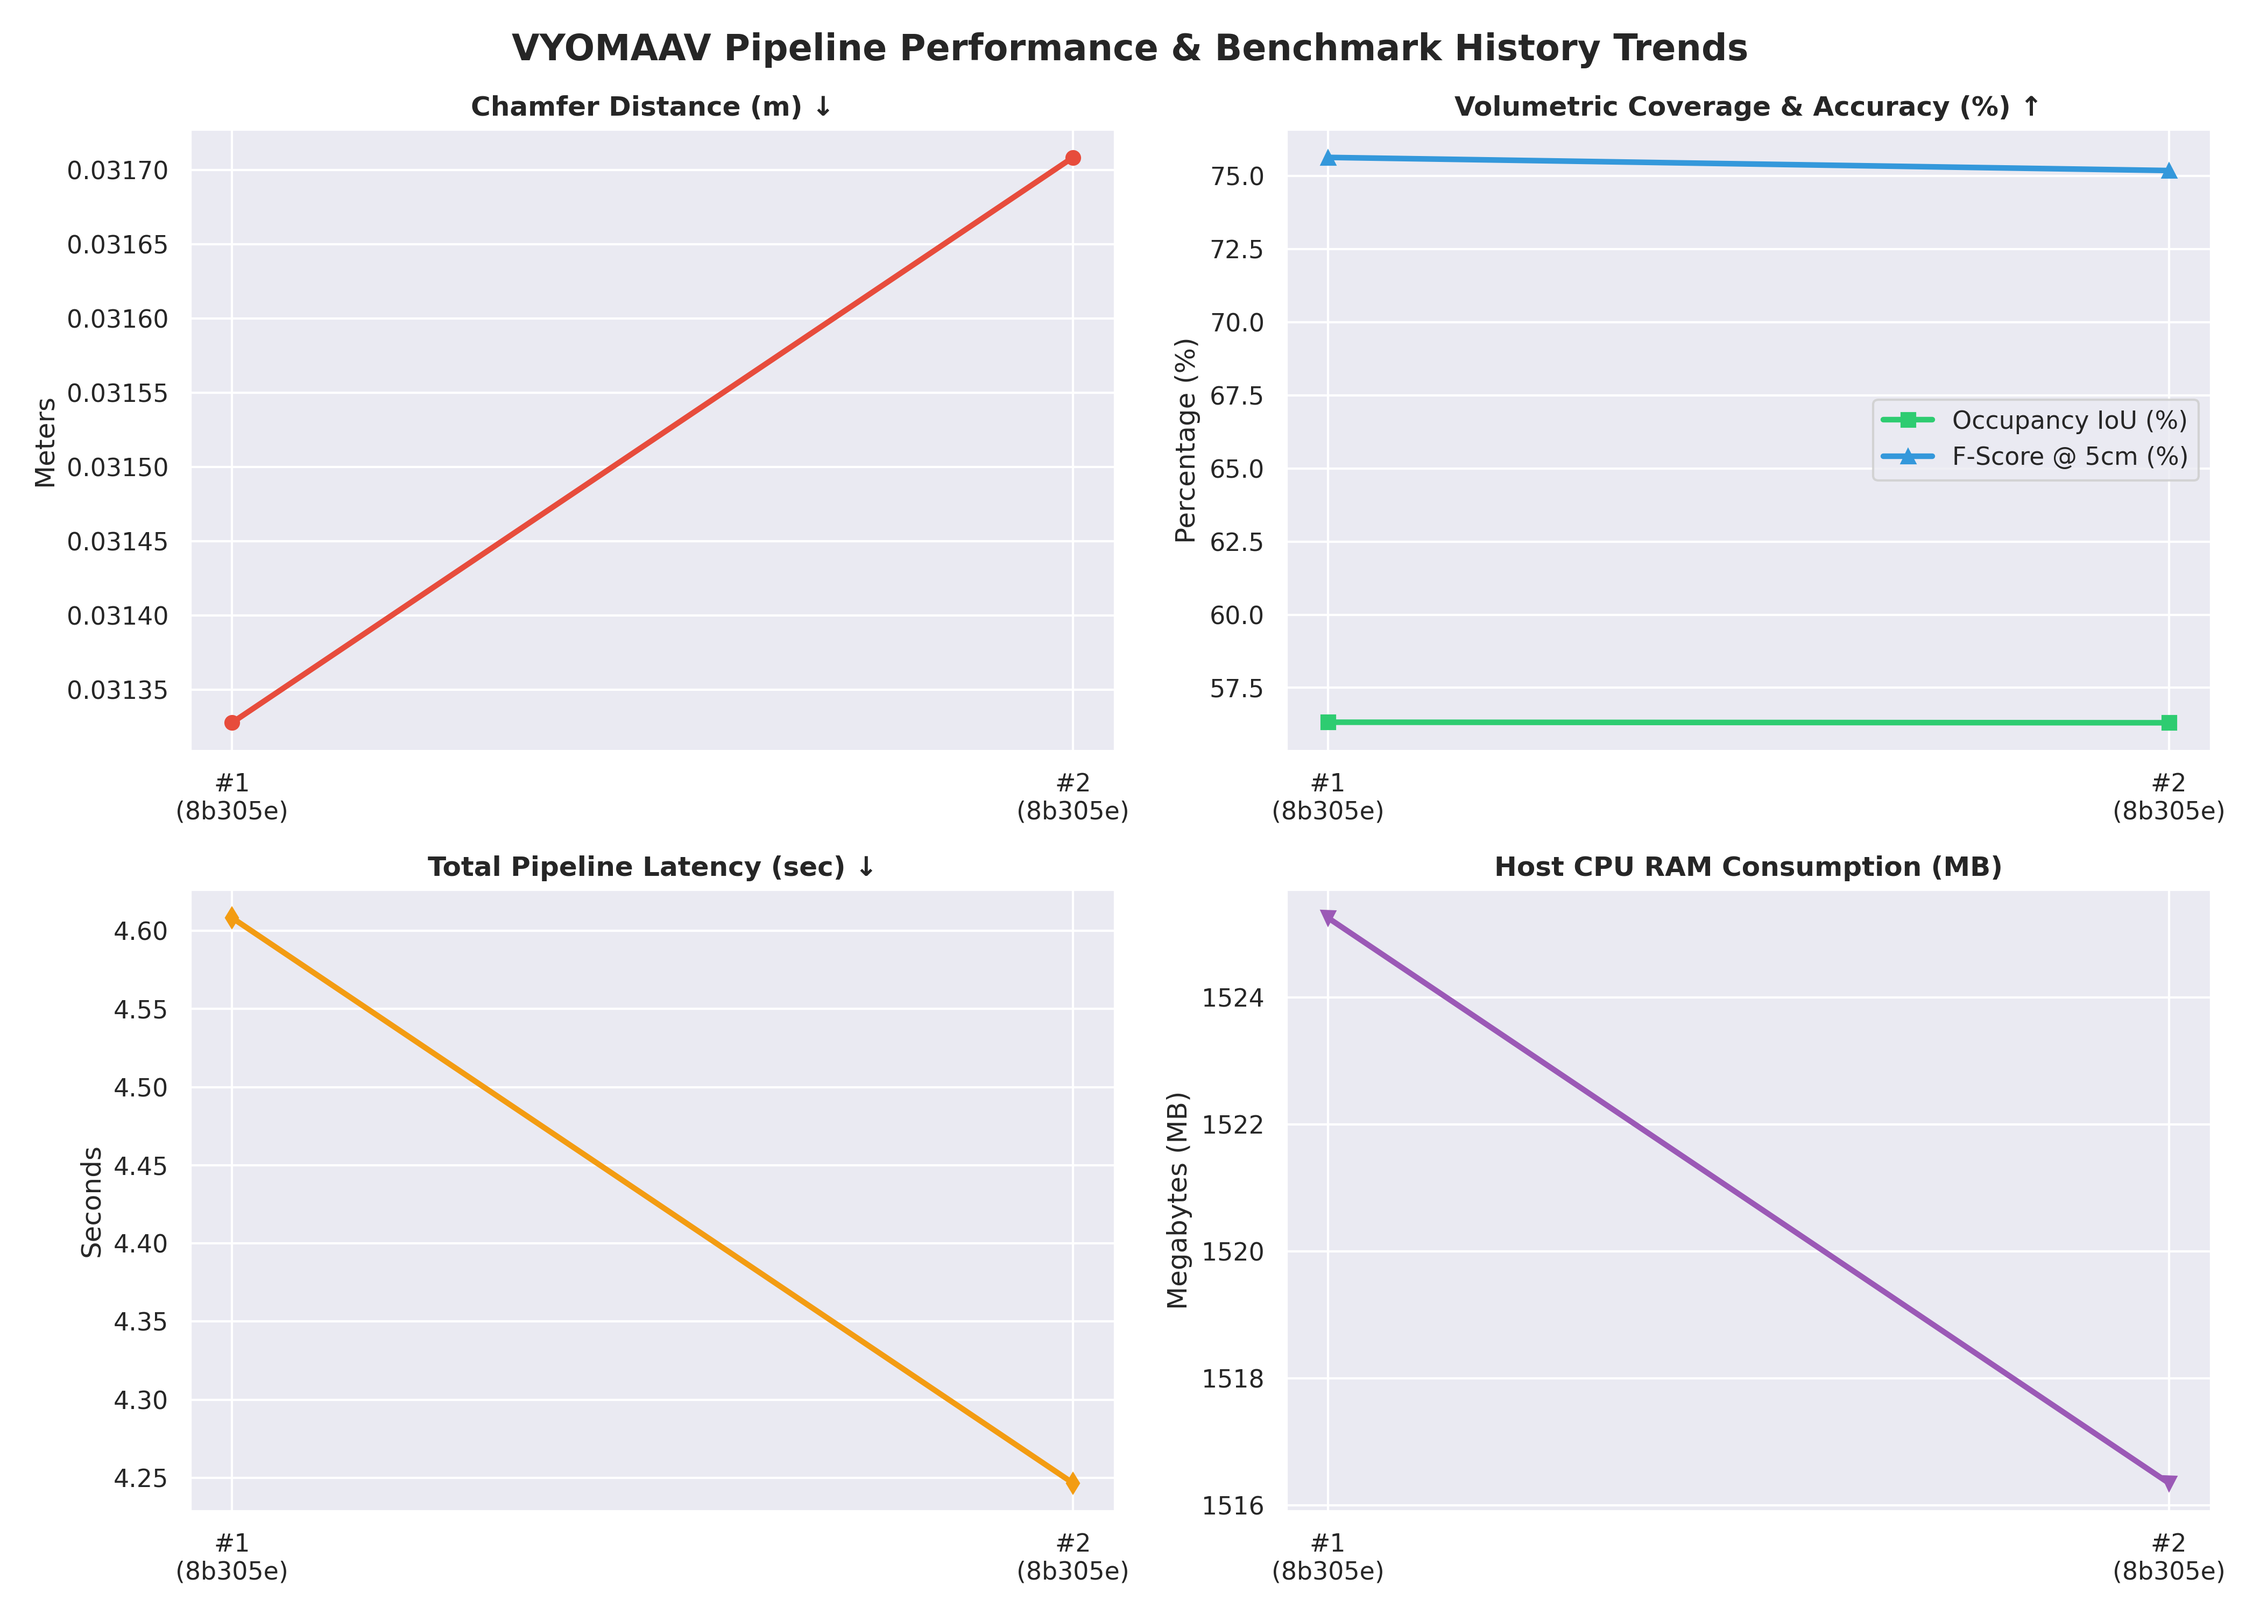
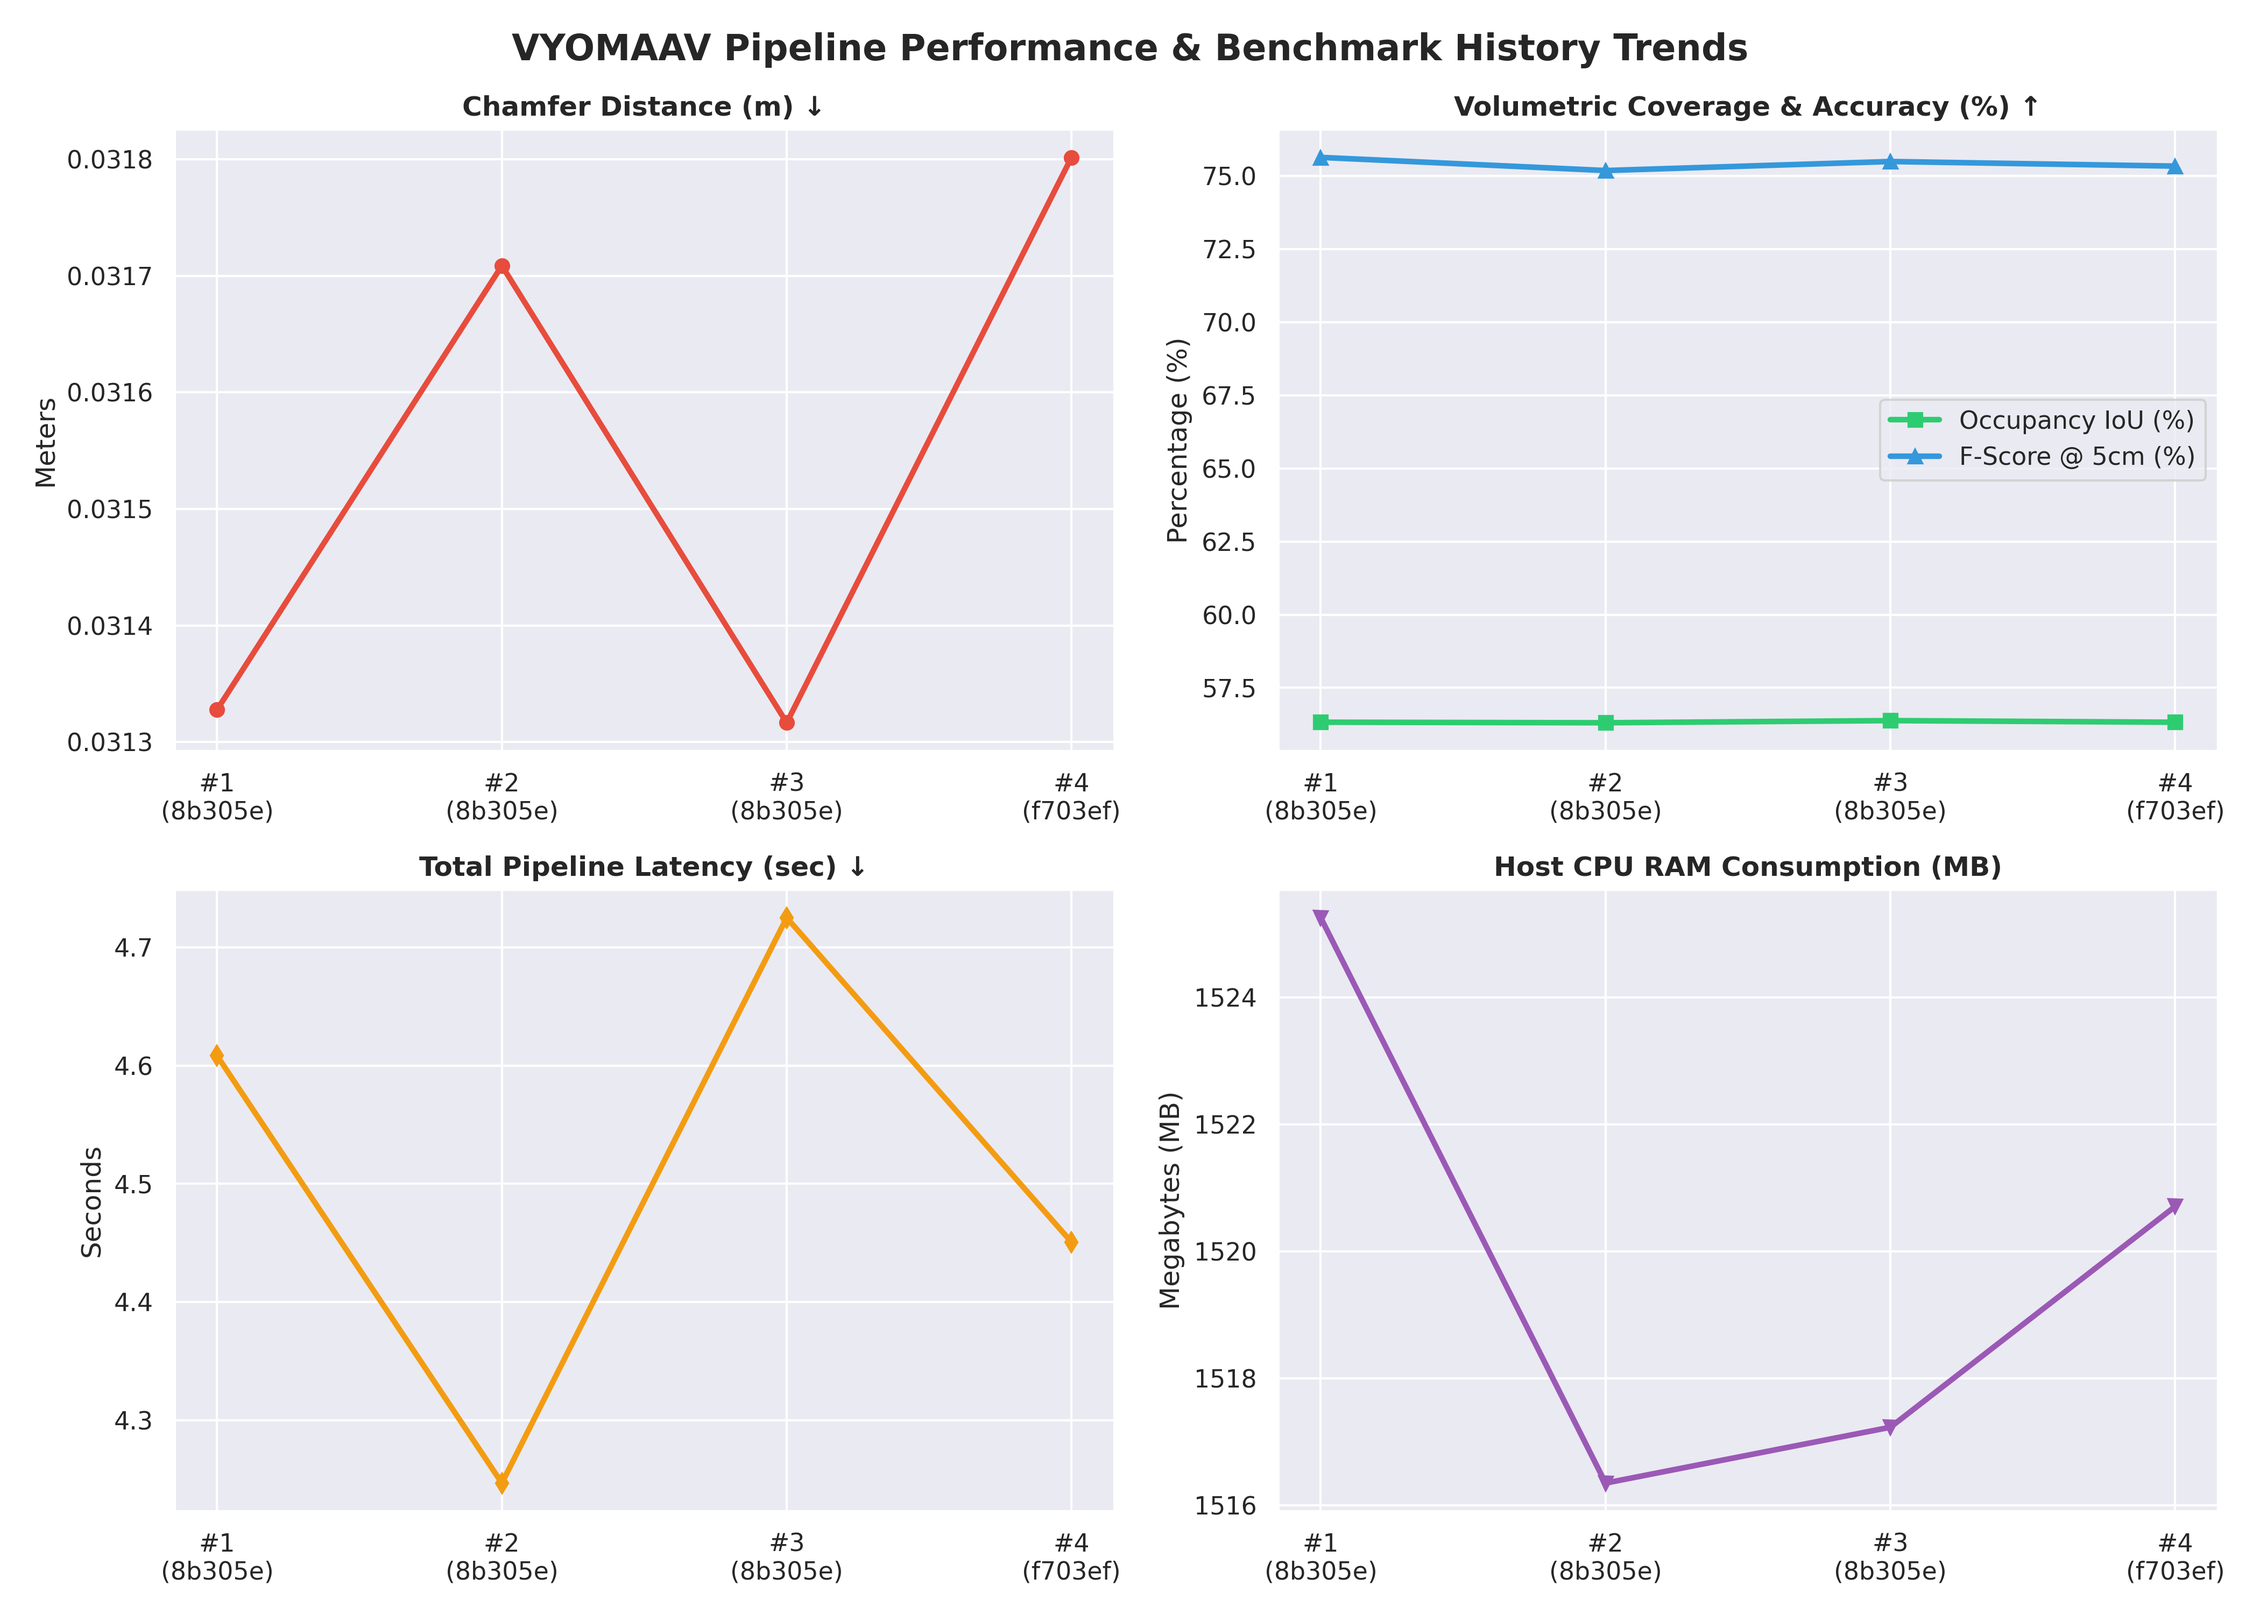
fix: resolve pandas parser error by auto-rebuilding history.csv from history.json

diff --git a/benchmarks/logger.py b/benchmarks/logger.py
@@ -1,4 +1,4 @@
-"""VYOMAAV Enriched Benchmark History Logger & Environmental Provenance Tracker."""
+"""VYOMAAV Enriched Benchmark History Logger & Auto-Migrating CSV Exporter."""
 
 import os
 import json
@@ -10,7 +10,7 @@ from typing import Dict, Any, Optional
 
 
 class BenchmarkLogger:
-    """Logs quantitative benchmark runs with complete environmental, model, and git metadata."""
+    """Logs quantitative benchmark runs with complete metadata and auto-migrating CSV schemas."""
 
     def __init__(self, output_dir: str = "./benchmarks"):
         self.output_dir = output_dir
@@ -19,7 +19,7 @@ class BenchmarkLogger:
         self.csv_path = os.path.join(self.output_dir, "history.csv")
 
     def _get_git_metadata(self) -> Dict[str, str]:
-        """Retrieves current Git commit hash and active branch name."""
+        """Retrieves active Git commit hash and branch name."""
         try:
             commit = subprocess.check_output(["git", "rev-parse", "--short", "HEAD"]).decode("utf-8").strip()
             branch = subprocess.check_output(["git", "rev-parse", "--abbrev-ref", "HEAD"]).decode("utf-8").strip()
@@ -28,13 +28,57 @@ class BenchmarkLogger:
             return {"commit": "unknown", "branch": "unknown"}
 
     def _get_environment_metadata(self) -> Dict[str, Any]:
-        """Captures PyTorch, CUDA runtime, and GPU hardware device specifications."""
+        """Captures hardware and PyTorch runtime environment."""
         gpu_name = torch.cuda.get_device_name(0) if torch.cuda.is_available() else "CPU"
         return {
             "pytorch_version": torch.__version__,
             "cuda_version": torch.version.cuda if torch.cuda.is_available() else "None",
             "gpu_model": gpu_name
         }
+
+    def _rebuild_csv_from_json(self) -> None:
+        """Rebuilds history.csv cleanly from history.json to enforce uniform columns."""
+        if not os.path.exists(self.json_path):
+            return
+
+        try:
+            with open(self.json_path, "r") as f:
+                records = json.load(f)
+        except Exception:
+            return
+
+        rows = []
+        for r in records:
+            env = r.get("environment", {})
+            cfg = r.get("config", {})
+            m = r.get("metrics", {})
+            perf = r.get("performance", {})
+
+            rows.append({
+                "timestamp": r.get("timestamp", ""),
+                "git_branch": r.get("git_branch", "unknown"),
+                "git_commit": r.get("git_commit", "unknown"),
+                "experiment": r.get("experiment", "unknown"),
+                "gpu_model": env.get("gpu_model", "unknown"),
+                "pytorch_version": env.get("pytorch_version", "unknown"),
+                "views": cfg.get("num_views", 12),
+                "resolution": cfg.get("resolution", "640x480"),
+                "abs_rel": m.get("abs_rel_error", 0.0),
+                "rmse_m": m.get("rmse", 0.0),
+                "chamfer_m": m.get("chamfer_distance", 0.0),
+                "hausdorff_m": m.get("hausdorff_distance", 0.0),
+                "f_score": m.get("f_score", 0.0),
+                "normal_consistency": m.get("normal_consistency", 0.0),
+                "occupancy_iou": m.get("volumetric_iou", 0.0),
+                "total_latency_sec": perf.get("total_latency_sec", 0.0),
+                "cpu_ram_mb": perf.get("cpu_ram_rss_mb", 0.0)
+            })
+
+        if rows:
+            with open(self.csv_path, "w", newline="") as f:
+                writer = csv.DictWriter(f, fieldnames=list(rows[0].keys()))
+                writer.writeheader()
+                writer.writerows(rows)
 
     def log_run(
         self,
@@ -43,10 +87,9 @@ class BenchmarkLogger:
         profiler_data: Dict[str, Any],
         config: Optional[Dict[str, Any]] = None
     ) -> None:
-        """Appends comprehensive benchmark results, system environment, and model metadata."""
+        """Appends benchmark record to history.json and syncs history.csv."""
         git_meta = self._get_git_metadata()
         env_meta = self._get_environment_metadata()
-        run_config = config or {}
 
         record = {
             "timestamp": datetime.now().isoformat(),
@@ -54,12 +97,11 @@ class BenchmarkLogger:
             "git_commit": git_meta["commit"],
             "experiment": experiment_name,
             "environment": env_meta,
-            "config": run_config,
+            "config": config or {},
             "metrics": metrics,
             "performance": profiler_data
         }
 
-        # 1. Update JSON History
         history_data = []
         if os.path.exists(self.json_path):
             try:
@@ -72,32 +114,6 @@ class BenchmarkLogger:
         with open(self.json_path, "w") as f:
             json.dump(history_data, f, indent=2)
 
-        # 2. Update CSV History
-        file_exists = os.path.exists(self.csv_path)
-        flattened = {
-            "timestamp": record["timestamp"],
-            "git_branch": git_meta["branch"],
-            "git_commit": git_meta["commit"],
-            "experiment": experiment_name,
-            "gpu_model": env_meta["gpu_model"],
-            "pytorch_version": env_meta["pytorch_version"],
-            "views": run_config.get("num_views", 12),
-            "resolution": run_config.get("resolution", "640x480"),
-            "abs_rel": metrics.get("abs_rel_error", 0.0),
-            "rmse_m": metrics.get("rmse", 0.0),
-            "chamfer_m": metrics.get("chamfer_distance", 0.0),
-            "hausdorff_m": metrics.get("hausdorff_distance", 0.0),
-            "f_score": metrics.get("f_score", 0.0),
-            "normal_consistency": metrics.get("normal_consistency", 0.0),
-            "occupancy_iou": metrics.get("volumetric_iou", 0.0),
-            "total_latency_sec": profiler_data.get("total_latency_sec", 0.0),
-            "cpu_ram_mb": profiler_data.get("cpu_ram_rss_mb", 0.0)
-        }
-
-        with open(self.csv_path, "a", newline="") as f:
-            writer = csv.DictWriter(f, fieldnames=list(flattened.keys()))
-            if not file_exists:
-                writer.writeheader()
-            writer.writerow(flattened)
-
-        print(f"Logged enriched benchmark record [Branch: {git_meta['branch']} | Commit: {git_meta['commit']} | GPU: {env_meta['gpu_model']}] to '{self.csv_path}'")
+        # Sync CSV cleanly from JSON history
+        self._rebuild_csv_from_json()
+        print(f"Logged run [Commit: {git_meta['commit']} | GPU: {env_meta['gpu_model']}] to '{self.csv_path}'")

diff --git a/benchmarks/plot_history.py b/benchmarks/plot_history.py
@@ -1,47 +1,71 @@
 """VYOMAAV Automated Benchmark History Visualization & Trend Plotter."""
 
 import os
+import json
 import pandas as pd
 import matplotlib.pyplot as plt
 import seaborn as sns
 
 
-def generate_benchmark_trend_plots(csv_path: str = "./benchmarks/history.csv", output_png: str = "./benchmarks/history_trends.png"):
-    """Reads history.csv and generates multi-panel trend plots for Chamfer, IoU, F-Score, Latency, and VRAM."""
-    if not os.path.exists(csv_path):
-        print(f"Warning: History log '{csv_path}' not found. Run benchmark suite first.")
+def generate_benchmark_trend_plots(
+    json_path: str = "./benchmarks/history.json",
+    csv_path: str = "./benchmarks/history.csv",
+    output_png: str = "./benchmarks/history_trends.png"
+):
+    """Reads benchmark history records and generates multi-panel performance trend graphs."""
+    if not os.path.exists(json_path) and not os.path.exists(csv_path):
+        print(f"Warning: History files not found in './benchmarks/'. Run benchmark suite first.")
         return
 
-    df = pd.read_csv(csv_path)
+    # Parse directly from structured history.json for complete safety
+    if os.path.exists(json_path):
+        with open(json_path, "r") as f:
+            records = json.load(f)
+        
+        rows = []
+        for r in records:
+            m = r.get("metrics", {})
+            perf = r.get("performance", {})
+            rows.append({
+                "git_commit": r.get("git_commit", "unknown"),
+                "chamfer_m": m.get("chamfer_distance", 0.0),
+                "occupancy_iou": m.get("volumetric_iou", 0.0),
+                "f_score": m.get("f_score", 0.0),
+                "total_latency_sec": perf.get("total_latency_sec", 0.0),
+                "cpu_ram_mb": perf.get("cpu_ram_rss_mb", 0.0)
+            })
+        df = pd.DataFrame(rows)
+    else:
+        df = pd.read_csv(csv_path, on_bad_lines="skip")
+
     if df.empty:
-        print("Warning: History log is empty.")
+        print("Warning: Benchmark history is empty.")
         return
 
-    # Create run labels combining run index and git commit
     df["run_label"] = [f"#{i+1}\n({commit[:6]})" for i, commit in enumerate(df["git_commit"])]
 
     sns.set_theme(style="darkgrid")
     fig, axes = plt.subplots(2, 2, figsize=(14, 10))
     fig.suptitle("VYOMAAV Pipeline Performance & Benchmark History Trends", fontsize=16, fontweight="bold")
 
-    # 1. Chamfer Distance (Meters) - Lower is better
+    # 1. Chamfer Distance (m)
     axes[0, 0].plot(df["run_label"], df["chamfer_m"], marker="o", color="#e74c3c", linewidth=2.5)
     axes[0, 0].set_title("Chamfer Distance (m) ↓", fontweight="bold")
     axes[0, 0].set_ylabel("Meters")
 
-    # 2. Volumetric Occupancy IoU (%) & F-Score @ 5cm (%) - Higher is better
+    # 2. Volumetric Coverage & Accuracy (%)
     axes[0, 1].plot(df["run_label"], df["occupancy_iou"] * 100, marker="s", color="#2ecc71", label="Occupancy IoU (%)", linewidth=2.5)
     axes[0, 1].plot(df["run_label"], df["f_score"] * 100, marker="^", color="#3498db", label="F-Score @ 5cm (%)", linewidth=2.5)
     axes[0, 1].set_title("Volumetric Coverage & Accuracy (%) ↑", fontweight="bold")
     axes[0, 1].set_ylabel("Percentage (%)")
     axes[0, 1].legend()
 
-    # 3. Total Latency (Seconds) - Lower is better
+    # 3. Execution Latency (s)
     axes[1, 0].plot(df["run_label"], df["total_latency_sec"], marker="d", color="#f39c12", linewidth=2.5)
     axes[1, 0].set_title("Total Pipeline Latency (sec) ↓", fontweight="bold")
     axes[1, 0].set_ylabel("Seconds")
 
-    # 4. Host RAM Consumption (MB) - Track memory footprint
+    # 4. Host CPU RAM (MB)
     axes[1, 1].plot(df["run_label"], df["cpu_ram_mb"], marker="v", color="#9b59b6", linewidth=2.5)
     axes[1, 1].set_title("Host CPU RAM Consumption (MB)", fontweight="bold")
     axes[1, 1].set_ylabel("Megabytes (MB)")
